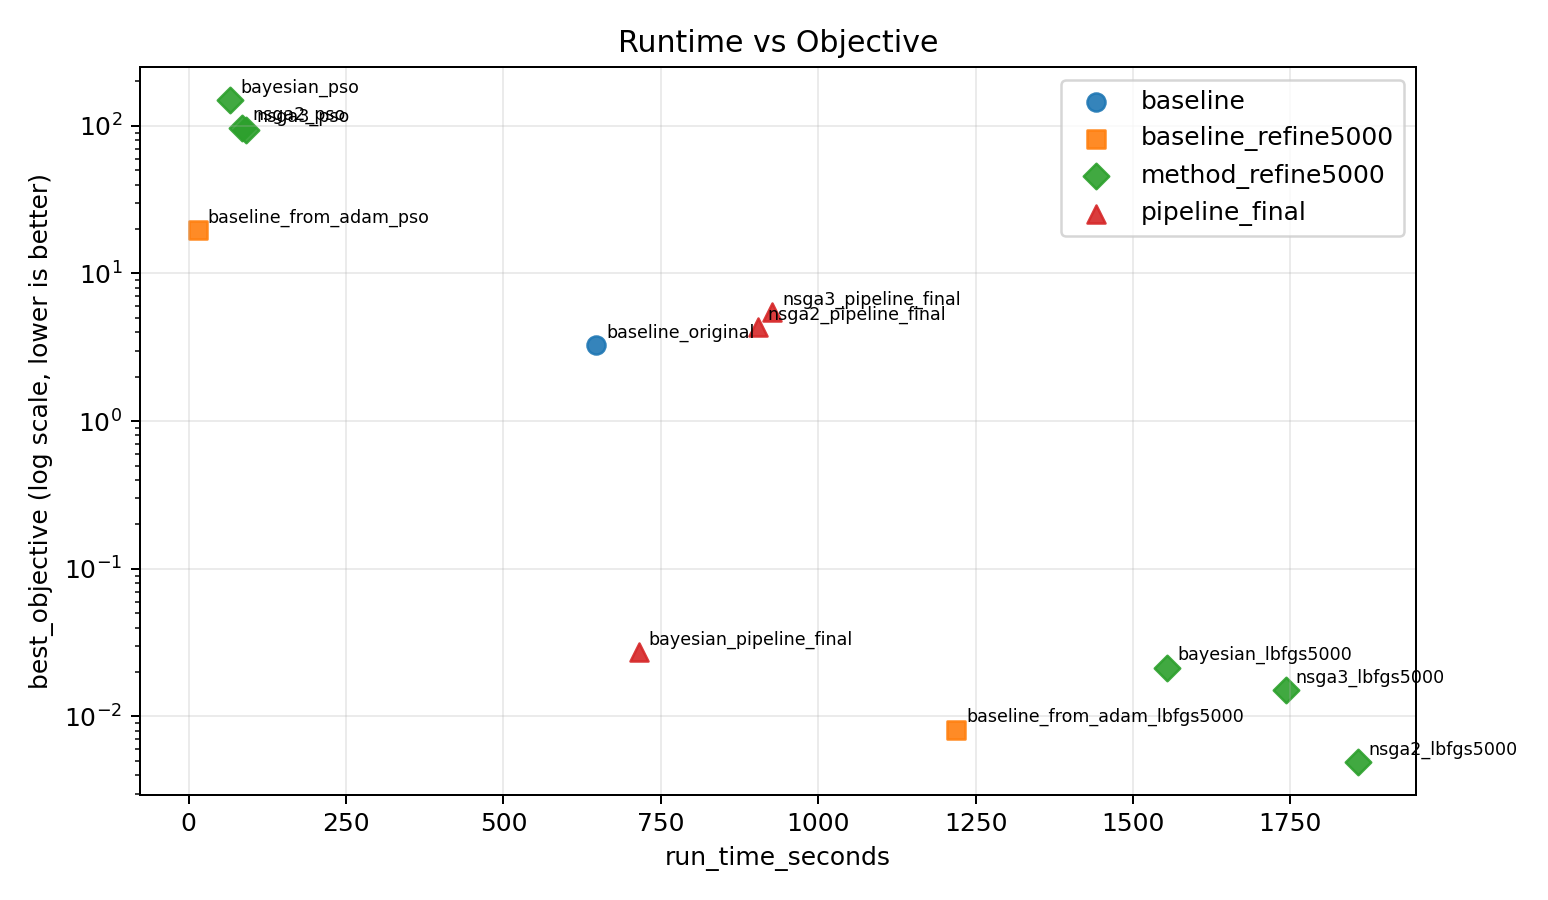
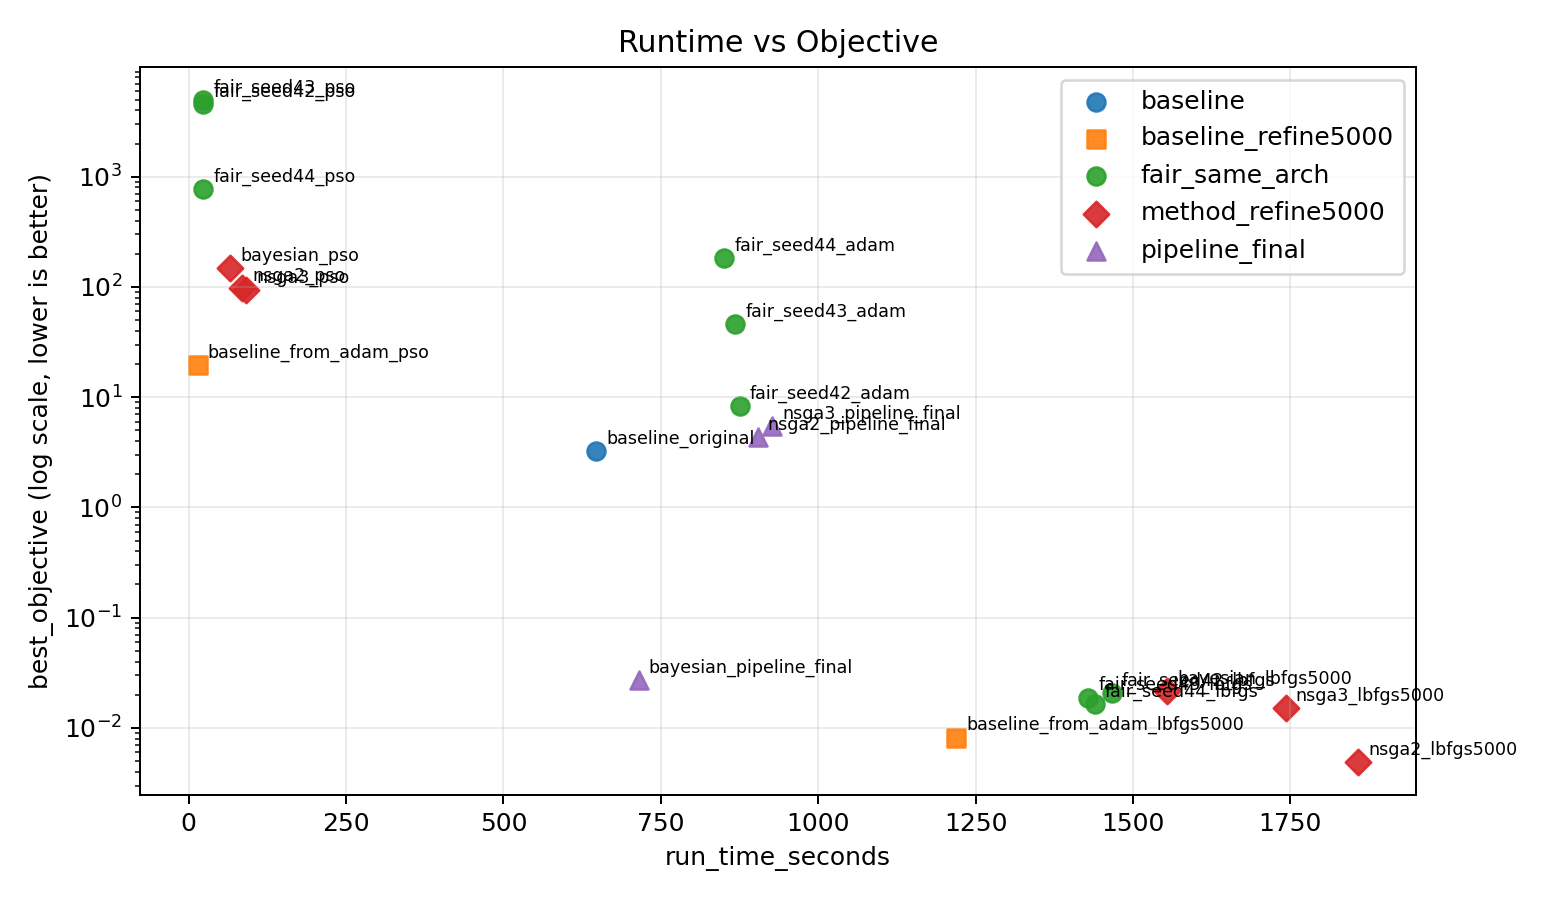
auto commit

diff --git a/NAS-PINNS2/quench2026_report_pack.py b/NAS-PINNS2/quench2026_report_pack.py
@@ -336,10 +336,149 @@ def build_runtime_table(results_root: Path) -> pd.DataFrame:
     return pd.DataFrame(rows)
 
 
+def load_fair_same_arch_tables(results_root: Path) -> Tuple[pd.DataFrame, pd.DataFrame]:
+    fair_dir = results_root / "fair_same_arch_refine"
+    per_seed_paths = sorted(fair_dir.glob("L*_N*_per_seed.csv"))
+    agg_paths = sorted(fair_dir.glob("L*_N*_aggregate_mean_std.csv"))
+
+    per_seed_all: List[pd.DataFrame] = []
+    agg_all: List[pd.DataFrame] = []
+
+    for p in per_seed_paths:
+        df = read_csv(p)
+        if df.empty:
+            continue
+        df["arch"] = p.name.replace("_per_seed.csv", "")
+        per_seed_all.append(df)
+
+    for p in agg_paths:
+        df = read_csv(p)
+        if df.empty:
+            continue
+        df["arch"] = p.name.replace("_aggregate_mean_std.csv", "")
+        agg_all.append(df)
+
+    per_seed_df = pd.concat(per_seed_all, ignore_index=True) if per_seed_all else pd.DataFrame()
+    agg_df = pd.concat(agg_all, ignore_index=True) if agg_all else pd.DataFrame()
+    return per_seed_df, agg_df
+
+
+def append_fair_runtime_rows(runtime_df: pd.DataFrame, fair_per_seed_df: pd.DataFrame) -> pd.DataFrame:
+    if fair_per_seed_df.empty:
+        return runtime_df
+    rows: List[Dict] = []
+    for _, row in fair_per_seed_df.iterrows():
+        seed = int(row["seed"])
+        arch = str(row["arch"])
+        layers = int(row.get("layers", np.nan))
+        neurons = int(row.get("neurons", np.nan))
+        rows.extend(
+            [
+                {
+                    "group": "fair_same_arch",
+                    "scenario": f"fair_seed{seed}_adam",
+                    "method": "fixed_arch",
+                    "run_dir": "",
+                    "layers": layers,
+                    "neurons": neurons,
+                    "param_count": np.nan,
+                    "best_stage": "adam",
+                    "best_objective": float(row["adam_obj"]),
+                    "run_time_seconds": float(row["adam_runtime_s"]),
+                    "arch": arch,
+                },
+                {
+                    "group": "fair_same_arch",
+                    "scenario": f"fair_seed{seed}_lbfgs",
+                    "method": "fixed_arch",
+                    "run_dir": "",
+                    "layers": layers,
+                    "neurons": neurons,
+                    "param_count": np.nan,
+                    "best_stage": "lbfgs",
+                    "best_objective": float(row["lbfgs_obj"]),
+                    "run_time_seconds": float(row["lbfgs_runtime_s"]),
+                    "arch": arch,
+                },
+                {
+                    "group": "fair_same_arch",
+                    "scenario": f"fair_seed{seed}_pso",
+                    "method": "fixed_arch",
+                    "run_dir": "",
+                    "layers": layers,
+                    "neurons": neurons,
+                    "param_count": np.nan,
+                    "best_stage": "pso",
+                    "best_objective": float(row["pso_obj"]),
+                    "run_time_seconds": float(row["pso_runtime_s"]),
+                    "arch": arch,
+                },
+            ]
+        )
+    add_df = pd.DataFrame(rows)
+    if runtime_df.empty:
+        return add_df
+    # Align columns and append.
+    for col in runtime_df.columns:
+        if col not in add_df.columns:
+            add_df[col] = np.nan
+    for col in add_df.columns:
+        if col not in runtime_df.columns:
+            runtime_df[col] = np.nan
+    return pd.concat([runtime_df, add_df[runtime_df.columns]], ignore_index=True)
+
+
+def plot_fair_same_arch_objective(per_seed_df: pd.DataFrame, out_png: Path) -> None:
+    if per_seed_df.empty:
+        return
+    rows: List[Dict] = []
+    for _, row in per_seed_df.iterrows():
+        rows.append({"seed": int(row["seed"]), "stage": "adam", "objective": float(row["adam_obj"])})
+        rows.append({"seed": int(row["seed"]), "stage": "lbfgs", "objective": float(row["lbfgs_obj"])})
+        rows.append({"seed": int(row["seed"]), "stage": "pso", "objective": float(row["pso_obj"])})
+    df = pd.DataFrame(rows)
+
+    fig, ax = plt.subplots(figsize=(7.8, 4.8))
+    stage_order = ["adam", "lbfgs", "pso"]
+    data = [df[df["stage"] == s]["objective"].to_numpy(dtype=float) for s in stage_order]
+    ax.boxplot(data, tick_labels=stage_order, showmeans=True)
+    ax.set_yscale("log")
+    ax.set_ylabel("objective (log scale)")
+    ax.set_title("Fair Same-Arch: Objective Distribution Across Seeds")
+    ax.grid(alpha=0.25)
+    fig.tight_layout()
+    fig.savefig(out_png, dpi=180)
+    plt.close(fig)
+
+
+def plot_fair_same_arch_runtime(per_seed_df: pd.DataFrame, out_png: Path) -> None:
+    if per_seed_df.empty:
+        return
+    stage_cols = {
+        "adam": "adam_runtime_s",
+        "lbfgs": "lbfgs_runtime_s",
+        "pso": "pso_runtime_s",
+    }
+    stages = list(stage_cols.keys())
+    means = [float(per_seed_df[stage_cols[s]].astype(float).mean()) for s in stages]
+    stds = [float(per_seed_df[stage_cols[s]].astype(float).std()) for s in stages]
+
+    fig, ax = plt.subplots(figsize=(7.8, 4.8))
+    ax.bar(stages, means, yerr=stds, capsize=5)
+    ax.set_ylabel("runtime (seconds)")
+    ax.set_title("Fair Same-Arch: Runtime Mean±Std Across Seeds")
+    ax.grid(alpha=0.25, axis="y")
+    fig.tight_layout()
+    fig.savefig(out_png, dpi=180)
+    plt.close(fig)
+
+
 def write_markdown_report(
     out_md: Path,
     quality_df: pd.DataFrame,
     runtime_df: pd.DataFrame,
+    fair_per_seed_df: pd.DataFrame,
+    fair_agg_df: pd.DataFrame,
     out_dir: Path,
 ) -> None:
     lines: List[str] = []
@@ -355,6 +494,11 @@ def write_markdown_report(
     lines.append(f"- `plots/search_pareto_cloud.png`")
     lines.append(f"- `plots/runtime_vs_objective.png`")
     lines.append(f"- `plots/adam_convergence_curves.png`")
+    if not fair_per_seed_df.empty:
+        lines.append(f"- `tables/fair_same_arch_per_seed.csv`")
+        lines.append(f"- `tables/fair_same_arch_aggregate.csv`")
+        lines.append(f"- `plots/fair_same_arch_objective_boxplot.png`")
+        lines.append(f"- `plots/fair_same_arch_runtime_bar.png`")
     lines.append("")
 
     if not quality_df.empty:
@@ -372,6 +516,15 @@ def write_markdown_report(
     if not runtime_df.empty:
         lines.append("## Runtime Table")
         lines.append(runtime_df.to_markdown(index=False))
+        lines.append("")
+
+    if not fair_per_seed_df.empty:
+        lines.append("## Fair Same-Architecture (Strict) Per-Seed")
+        lines.append(fair_per_seed_df.to_markdown(index=False))
+        lines.append("")
+    if not fair_agg_df.empty:
+        lines.append("## Fair Same-Architecture Aggregate")
+        lines.append(fair_agg_df.to_markdown(index=False))
         lines.append("")
 
     lines.append("## Note")
@@ -424,6 +577,20 @@ def main():
 
     # 4) Runtime summary + scatter
     runtime_df = build_runtime_table(results_root)
+
+    # 4b) Fair same-arch strict tables (if available)
+    fair_per_seed_df, fair_agg_df = load_fair_same_arch_tables(results_root)
+    if not fair_per_seed_df.empty:
+        fair_per_seed_df = fair_per_seed_df.copy()
+        fair_per_seed_df["seed"] = pd.to_numeric(fair_per_seed_df["seed"], errors="coerce").astype("Int64")
+        fair_per_seed_df.to_csv(table_dir / "fair_same_arch_per_seed.csv", index=False)
+        runtime_df = append_fair_runtime_rows(runtime_df, fair_per_seed_df)
+        plot_fair_same_arch_objective(fair_per_seed_df, plot_dir / "fair_same_arch_objective_boxplot.png")
+        plot_fair_same_arch_runtime(fair_per_seed_df, plot_dir / "fair_same_arch_runtime_bar.png")
+
+    if not fair_agg_df.empty:
+        fair_agg_df.to_csv(table_dir / "fair_same_arch_aggregate.csv", index=False)
+
     if not runtime_df.empty:
         runtime_df["best_objective"] = pd.to_numeric(runtime_df["best_objective"], errors="coerce")
         runtime_df["run_time_seconds"] = pd.to_numeric(runtime_df["run_time_seconds"], errors="coerce")
@@ -436,7 +603,7 @@ def main():
 
     # 6) Markdown report
     report_md = out_dir / "report.md"
-    write_markdown_report(report_md, quality_df, runtime_df, out_dir)
+    write_markdown_report(report_md, quality_df, runtime_df, fair_per_seed_df, fair_agg_df, out_dir)
 
     print(f"Report pack written: {out_dir}")
     print(f"Tables: {table_dir}")

diff --git a/NAS-PINNS2/results/quench2026/report_pack/report.md b/NAS-PINNS2/results/quench2026/report_pack/report.md
@@ -10,6 +10,10 @@
 - `plots/search_pareto_cloud.png`
 - `plots/runtime_vs_objective.png`
 - `plots/adam_convergence_curves.png`
+- `tables/fair_same_arch_per_seed.csv`
+- `tables/fair_same_arch_aggregate.csv`
+- `plots/fair_same_arch_objective_boxplot.png`
+- `plots/fair_same_arch_runtime_bar.png`
 
 ## Top Result
 - best method: `nsga2` | arch `L6_N132` | best_after_refine_obj `0.00492846`
@@ -23,20 +27,43 @@
 | bayesian | L5_N121             | adam                  |           0.0273101 |        148.88   |      0.021403   |   864.708 | lbfgs                     |              0.021403   |                       21.6297 |                   4 |                      23.027 |
 
 ## Runtime Table
-| group               | scenario                     | method   | run_dir                                                                                         |   layers |   neurons |   param_count | best_stage   |   best_objective |   run_time_seconds |
-|:--------------------|:-----------------------------|:---------|:------------------------------------------------------------------------------------------------|---------:|----------:|--------------:|:-------------|-----------------:|-------------------:|
-| method_refine5000   | nsga2_lbfgs5000              | nsga2    | /home/coder/NAS-PINNS1/NAS-PINNS2/results/quench2026/best_adam_lbfgs5000/lbfgs/nsga2/L6_N132    |        6 |       132 |        143283 | lbfgs        |       0.00492846 |          1858.18   |
-| baseline_refine5000 | baseline_from_adam_lbfgs5000 | baseline | /home/coder/NAS-PINNS1/NAS-PINNS2/results/quench2026/baseline_adam_refine5000/lbfgs/L5_N96      |        5 |        96 |         57942 | lbfgs        |       0.00814861 |          1219.7    |
-| method_refine5000   | nsga3_lbfgs5000              | nsga3    | /home/coder/NAS-PINNS1/NAS-PINNS2/results/quench2026/best_adam_lbfgs5000/lbfgs/nsga3/L6_N141    |        6 |       141 |        163200 | lbfgs        |       0.0151231  |          1742.48   |
-| method_refine5000   | bayesian_lbfgs5000           | bayesian | /home/coder/NAS-PINNS1/NAS-PINNS2/results/quench2026/best_adam_lbfgs5000/lbfgs/bayesian/L5_N121 |        5 |       121 |         91167 | lbfgs        |       0.021403   |          1554.7    |
-| pipeline_final      | bayesian_pipeline_final      | bayesian | /home/coder/NAS-PINNS1/NAS-PINNS2/results/quench2026/pipeline/bayesian/final/L5_N121            |        5 |       121 |         91167 | adam         |       0.0273101  |           714.937  |
-| baseline            | baseline_original            | baseline | /home/coder/NAS-PINNS1/NAS-PINNS2/results/quench2026/baseline/L5_N96                            |        5 |        96 |         57942 | lbfgs        |       3.26091    |           647.247  |
-| pipeline_final      | nsga2_pipeline_final         | nsga2    | /home/coder/NAS-PINNS1/NAS-PINNS2/results/quench2026/pipeline/nsga2/final/L6_N132               |        6 |       132 |        143283 | lbfgs        |       4.31022    |           903.765  |
-| pipeline_final      | nsga3_pipeline_final         | nsga3    | /home/coder/NAS-PINNS1/NAS-PINNS2/results/quench2026/pipeline/nsga3/final/L6_N141               |        6 |       141 |        163200 | lbfgs        |       5.4517     |           926.457  |
-| baseline_refine5000 | baseline_from_adam_pso       | baseline | /home/coder/NAS-PINNS1/NAS-PINNS2/results/quench2026/baseline_adam_refine5000/pso/L5_N96        |        5 |        96 |         57942 | adam         |      19.5636     |            14.1951 |
-| method_refine5000   | nsga3_pso                    | nsga3    | /home/coder/NAS-PINNS1/NAS-PINNS2/results/quench2026/best_adam_lbfgs5000/pso/nsga3/L6_N141      |        6 |       141 |        163200 | adam         |      94.1063     |            91.6431 |
-| method_refine5000   | nsga2_pso                    | nsga2    | /home/coder/NAS-PINNS1/NAS-PINNS2/results/quench2026/best_adam_lbfgs5000/pso/nsga2/L6_N132      |        6 |       132 |        143283 | adam         |      97.2477     |            84.6718 |
-| method_refine5000   | bayesian_pso                 | bayesian | /home/coder/NAS-PINNS1/NAS-PINNS2/results/quench2026/best_adam_lbfgs5000/pso/bayesian/L5_N121   |        5 |       121 |         91167 | adam         |     148.88       |            65.3704 |
+| group               | scenario                     | method     | run_dir                                                                                         |   layers |   neurons |   param_count | best_stage   |   best_objective |   run_time_seconds | arch    |
+|:--------------------|:-----------------------------|:-----------|:------------------------------------------------------------------------------------------------|---------:|----------:|--------------:|:-------------|-----------------:|-------------------:|:--------|
+| method_refine5000   | nsga2_lbfgs5000              | nsga2      | /home/coder/NAS-PINNS1/NAS-PINNS2/results/quench2026/best_adam_lbfgs5000/lbfgs/nsga2/L6_N132    |        6 |       132 |        143283 | lbfgs        |       0.00492846 |          1858.18   | nan     |
+| baseline_refine5000 | baseline_from_adam_lbfgs5000 | baseline   | /home/coder/NAS-PINNS1/NAS-PINNS2/results/quench2026/baseline_adam_refine5000/lbfgs/L5_N96      |        5 |        96 |         57942 | lbfgs        |       0.00814861 |          1219.7    | nan     |
+| method_refine5000   | nsga3_lbfgs5000              | nsga3      | /home/coder/NAS-PINNS1/NAS-PINNS2/results/quench2026/best_adam_lbfgs5000/lbfgs/nsga3/L6_N141    |        6 |       141 |        163200 | lbfgs        |       0.0151231  |          1742.48   | nan     |
+| fair_same_arch      | fair_seed44_lbfgs            | fixed_arch |                                                                                                 |        6 |       132 |           nan | lbfgs        |       0.0164979  |          1439.32   | L6_N132 |
+| fair_same_arch      | fair_seed43_lbfgs            | fixed_arch |                                                                                                 |        6 |       132 |           nan | lbfgs        |       0.0187972  |          1429.3    | L6_N132 |
+| fair_same_arch      | fair_seed42_lbfgs            | fixed_arch |                                                                                                 |        6 |       132 |           nan | lbfgs        |       0.0208041  |          1466.15   | L6_N132 |
+| method_refine5000   | bayesian_lbfgs5000           | bayesian   | /home/coder/NAS-PINNS1/NAS-PINNS2/results/quench2026/best_adam_lbfgs5000/lbfgs/bayesian/L5_N121 |        5 |       121 |         91167 | lbfgs        |       0.021403   |          1554.7    | nan     |
+| pipeline_final      | bayesian_pipeline_final      | bayesian   | /home/coder/NAS-PINNS1/NAS-PINNS2/results/quench2026/pipeline/bayesian/final/L5_N121            |        5 |       121 |         91167 | adam         |       0.0273101  |           714.937  | nan     |
+| baseline            | baseline_original            | baseline   | /home/coder/NAS-PINNS1/NAS-PINNS2/results/quench2026/baseline/L5_N96                            |        5 |        96 |         57942 | lbfgs        |       3.26091    |           647.247  | nan     |
+| pipeline_final      | nsga2_pipeline_final         | nsga2      | /home/coder/NAS-PINNS1/NAS-PINNS2/results/quench2026/pipeline/nsga2/final/L6_N132               |        6 |       132 |        143283 | lbfgs        |       4.31022    |           903.765  | nan     |
+| pipeline_final      | nsga3_pipeline_final         | nsga3      | /home/coder/NAS-PINNS1/NAS-PINNS2/results/quench2026/pipeline/nsga3/final/L6_N141               |        6 |       141 |        163200 | lbfgs        |       5.4517     |           926.457  | nan     |
+| fair_same_arch      | fair_seed42_adam             | fixed_arch |                                                                                                 |        6 |       132 |           nan | adam         |       8.33141    |           875.379  | L6_N132 |
+| baseline_refine5000 | baseline_from_adam_pso       | baseline   | /home/coder/NAS-PINNS1/NAS-PINNS2/results/quench2026/baseline_adam_refine5000/pso/L5_N96        |        5 |        96 |         57942 | adam         |      19.5636     |            14.1951 | nan     |
+| fair_same_arch      | fair_seed43_adam             | fixed_arch |                                                                                                 |        6 |       132 |           nan | adam         |      46.2702     |           868.575  | L6_N132 |
+| method_refine5000   | nsga3_pso                    | nsga3      | /home/coder/NAS-PINNS1/NAS-PINNS2/results/quench2026/best_adam_lbfgs5000/pso/nsga3/L6_N141      |        6 |       141 |        163200 | adam         |      94.1063     |            91.6431 | nan     |
+| method_refine5000   | nsga2_pso                    | nsga2      | /home/coder/NAS-PINNS1/NAS-PINNS2/results/quench2026/best_adam_lbfgs5000/pso/nsga2/L6_N132      |        6 |       132 |        143283 | adam         |      97.2477     |            84.6718 | nan     |
+| method_refine5000   | bayesian_pso                 | bayesian   | /home/coder/NAS-PINNS1/NAS-PINNS2/results/quench2026/best_adam_lbfgs5000/pso/bayesian/L5_N121   |        5 |       121 |         91167 | adam         |     148.88       |            65.3704 | nan     |
+| fair_same_arch      | fair_seed44_adam             | fixed_arch |                                                                                                 |        6 |       132 |           nan | adam         |     182.688      |           850.783  | L6_N132 |
+| fair_same_arch      | fair_seed44_pso              | fixed_arch |                                                                                                 |        6 |       132 |           nan | pso          |     772.034      |            23.1715 | L6_N132 |
+| fair_same_arch      | fair_seed42_pso              | fixed_arch |                                                                                                 |        6 |       132 |           nan | pso          |    4584.99       |            23.3553 | L6_N132 |
+| fair_same_arch      | fair_seed43_pso              | fixed_arch |                                                                                                 |        6 |       132 |           nan | pso          |    4939.19       |            23.0983 | L6_N132 |
+
+## Fair Same-Architecture (Strict) Per-Seed
+|   seed | arch    |   layers |   neurons |   adam_obj |   lbfgs_obj |   pso_obj |   adam_runtime_s |   lbfgs_runtime_s |   pso_runtime_s |   lbfgs_better_than_adam |   pso_better_than_adam |
+|-------:|:--------|---------:|----------:|-----------:|------------:|----------:|-----------------:|------------------:|----------------:|-------------------------:|-----------------------:|
+|     42 | L6_N132 |        6 |       132 |    8.33141 |   0.0208041 |  4584.99  |          875.379 |           1466.15 |         23.3553 |                        1 |                      0 |
+|     43 | L6_N132 |        6 |       132 |   46.2702  |   0.0187972 |  4939.19  |          868.575 |           1429.3  |         23.0983 |                        1 |                      0 |
+|     44 | L6_N132 |        6 |       132 |  182.688   |   0.0164979 |   772.034 |          850.783 |           1439.32 |         23.1715 |                        1 |                      0 |
+
+## Fair Same-Architecture Aggregate
+| stage   |   objective_mean |   objective_std |   runtime_mean_s |   runtime_std_s |   improve_vs_adam_pct | arch    |
+|:--------|-----------------:|----------------:|-----------------:|----------------:|----------------------:|:--------|
+| adam    |       79.0966    |     74.87       |         864.912  |       10.3699   |                0      | L6_N132 |
+| lbfgs   |        0.0186997 |      0.00175936 |        1444.92   |       15.5547   |               99.9764 | L6_N132 |
+| pso     |     3432.07      |   1886.48       |          23.2084 |        0.108119 |            -4239.08   | L6_N132 |
 
 ## Note
 - `quality_score_vs_best_pct` objective tabanli bir skordur; klasik classification accuracy degildir.
